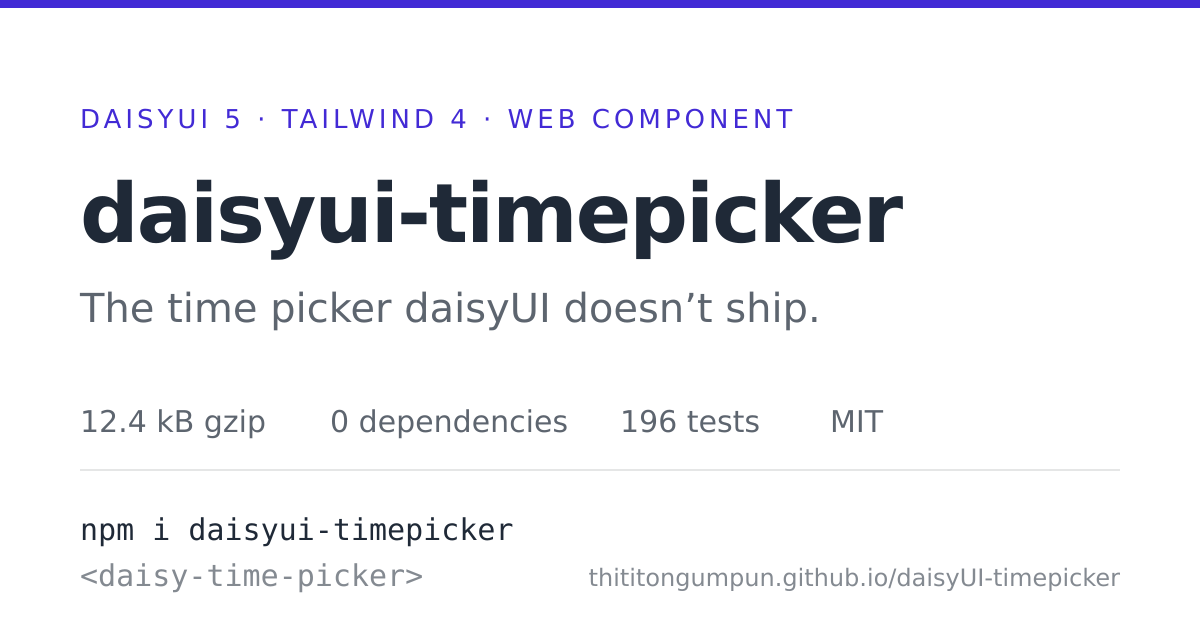
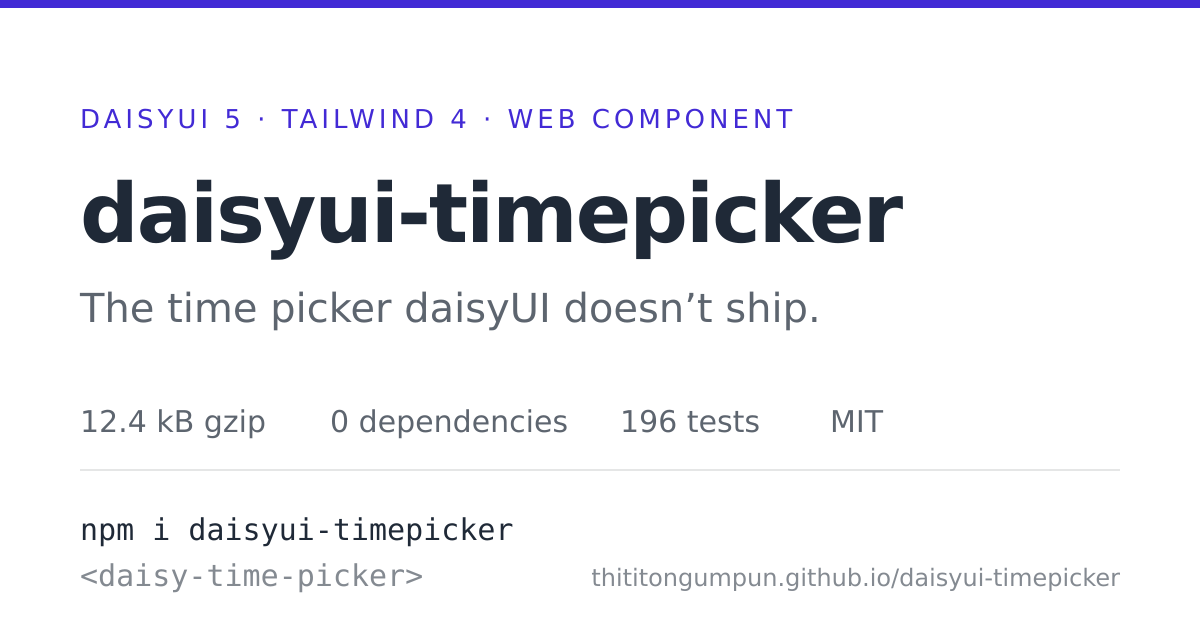
Use the repo's real lowercase name in every absolute URL
The repo is named daisyui-timepicker, not daisyUI-timepicker — the mixed-case
spelling came from the local working directory and was wrong everywhere it
appeared. github.com redirects case-insensitively so the repo links happened to
work, but GitHub Pages paths are case-sensitive, so the canonical link, og:url,
og:image, twitter:image, JSON-LD url, package.json homepage and the README's
live-demo link all pointed at a 404.

og.png is re-rendered because og.svg prints the URL on the card.

Changed region(s): [[0.4933, 0.9048, 0.8325, 0.9349]]

diff --git a/demo/index.html b/demo/index.html
@@ -5,19 +5,19 @@
 <meta name="viewport" content="width=device-width, initial-scale=1, viewport-fit=cover">
 <title>daisyui-timepicker — the time picker daisyUI doesn’t ship</title>
 <meta name="description" content="A zero-dependency &lt;daisy-time-picker&gt; custom element in light DOM, styled only with daisyUI 5 and Tailwind classes, so it inherits your theme. 12-hour and 24-hour, form-associated, 12.4 kB gzip.">
-<link rel="canonical" href="https://thititongumpun.github.io/daisyUI-timepicker/">
+<link rel="canonical" href="https://thititongumpun.github.io/daisyui-timepicker/">
 
 <meta property="og:type" content="website">
 <meta property="og:title" content="daisyui-timepicker — the time picker daisyUI doesn’t ship">
 <meta property="og:description" content="A zero-dependency &lt;daisy-time-picker&gt; custom element in light DOM, styled only with daisyUI 5 and Tailwind classes, so it inherits your theme. 12-hour and 24-hour, form-associated, 12.4 kB gzip.">
-<meta property="og:url" content="https://thititongumpun.github.io/daisyUI-timepicker/">
-<meta property="og:image" content="https://thititongumpun.github.io/daisyUI-timepicker/og.png">
+<meta property="og:url" content="https://thititongumpun.github.io/daisyui-timepicker/">
+<meta property="og:image" content="https://thititongumpun.github.io/daisyui-timepicker/og.png">
 <meta property="og:image:width" content="1200">
 <meta property="og:image:height" content="630">
 <meta name="twitter:card" content="summary_large_image">
 <meta name="twitter:title" content="daisyui-timepicker — the time picker daisyUI doesn’t ship">
 <meta name="twitter:description" content="A zero-dependency &lt;daisy-time-picker&gt; custom element in light DOM, styled only with daisyUI 5 and Tailwind classes, so it inherits your theme.">
-<meta name="twitter:image" content="https://thititongumpun.github.io/daisyUI-timepicker/og.png">
+<meta name="twitter:image" content="https://thititongumpun.github.io/daisyui-timepicker/og.png">
 
 <!-- daisyUI's own light / dark base-100, so the browser chrome matches the paper. -->
 <meta name="theme-color" content="#ffffff" media="(prefers-color-scheme: light)">
@@ -582,7 +582,7 @@ code, kbd, pre, .mono { font-family: var(--font-mono); font-variant-ligatures: n
     <option value="retro">retro</option>
     <option value="corporate">corporate</option>
   </select>
-  <a class="nav__gh" href="https://github.com/thititongumpun/daisyUI-timepicker" rel="noopener">GitHub</a>
+  <a class="nav__gh" href="https://github.com/thititongumpun/daisyui-timepicker" rel="noopener">GitHub</a>
 </nav>
 
 <main>
@@ -998,7 +998,7 @@ function Meeting() {
       <h2 class="dsp">Reference, condensed.</h2>
       <p class="note">
         The parts you reach for first. Every attribute has a matching property, and the
-        <a class="link" href="https://github.com/thititongumpun/daisyUI-timepicker#reference" rel="noopener">full
+        <a class="link" href="https://github.com/thititongumpun/daisyui-timepicker#reference" rel="noopener">full
         reference in the README</a> carries the rest — <code>defaultValue</code>,
         <code>resolvedHourCycle</code>, the <code>ElementInternals</code> delegates, and the
         <code>hour-cycle="auto"</code> detection rules.
@@ -1094,7 +1094,7 @@ function Meeting() {
       <span class="num">v0.1.1</span>
       <span>MIT</span>
       <a class="foot__link" href="https://www.npmjs.com/package/daisyui-timepicker" rel="noopener">npm</a>
-      <a class="foot__link" href="https://github.com/thititongumpun/daisyUI-timepicker" rel="noopener">GitHub</a>
+      <a class="foot__link" href="https://github.com/thititongumpun/daisyui-timepicker" rel="noopener">GitHub</a>
       <a class="foot__link" href="checks.html">Manual checks</a>
     </p>
   </div>
@@ -1106,11 +1106,11 @@ function Meeting() {
   "@type": "SoftwareSourceCode",
   "name": "daisyui-timepicker",
   "description": "A zero-dependency <daisy-time-picker> custom element in light DOM, styled only with daisyUI 5 and Tailwind utility classes so it inherits the page's daisyUI theme. 12-hour and 24-hour formats, form-associated through ElementInternals.",
-  "codeRepository": "https://github.com/thititongumpun/daisyUI-timepicker",
+  "codeRepository": "https://github.com/thititongumpun/daisyui-timepicker",
   "programmingLanguage": "TypeScript",
   "license": "https://opensource.org/licenses/MIT",
   "runtimePlatform": "Web browser with custom elements v1 and ElementInternals (Chromium 77+, Firefox 98+, Safari 16.4+)",
-  "url": "https://thititongumpun.github.io/daisyUI-timepicker/",
+  "url": "https://thititongumpun.github.io/daisyui-timepicker/",
   "version": "0.1.1",
   "author": { "@type": "Person", "name": "Thiti" }
 }

diff --git a/README.md b/README.md
@@ -1,10 +1,10 @@
 # daisyui-timepicker
 
 [![npm version](https://img.shields.io/npm/v/daisyui-timepicker.svg)](https://www.npmjs.com/package/daisyui-timepicker)
-[![license](https://img.shields.io/npm/l/daisyui-timepicker.svg)](https://github.com/thititongumpun/daisyUI-timepicker/blob/main/LICENSE)
-[![CI](https://github.com/thititongumpun/daisyUI-timepicker/actions/workflows/ci.yml/badge.svg)](https://github.com/thititongumpun/daisyUI-timepicker/actions/workflows/ci.yml)
+[![license](https://img.shields.io/npm/l/daisyui-timepicker.svg)](https://github.com/thititongumpun/daisyui-timepicker/blob/main/LICENSE)
+[![CI](https://github.com/thititongumpun/daisyui-timepicker/actions/workflows/ci.yml/badge.svg)](https://github.com/thititongumpun/daisyui-timepicker/actions/workflows/ci.yml)
 
-**▶ [Live demo](https://thititongumpun.github.io/daisyUI-timepicker/)** — the
+**▶ [Live demo](https://thititongumpun.github.io/daisyui-timepicker/)** — the
 element in a real browser, in a real form.
 
 A zero-dependency `<daisy-time-picker>` custom element, styled entirely with

diff --git a/demo/README-manual-checks.md b/demo/README-manual-checks.md
@@ -15,8 +15,8 @@ npx serve demo       # any static server rooted at demo/ works
 Then open `checks.html` — `index.html` is the landing page, these checks live at
 `/checks.html`.
 
-Live demo: https://thititongumpun.github.io/daisyUI-timepicker/ — manual checks
-at https://thititongumpun.github.io/daisyUI-timepicker/checks.html
+Live demo: https://thititongumpun.github.io/daisyui-timepicker/ — manual checks
+at https://thititongumpun.github.io/daisyui-timepicker/checks.html
 
 ## Checklist
 
